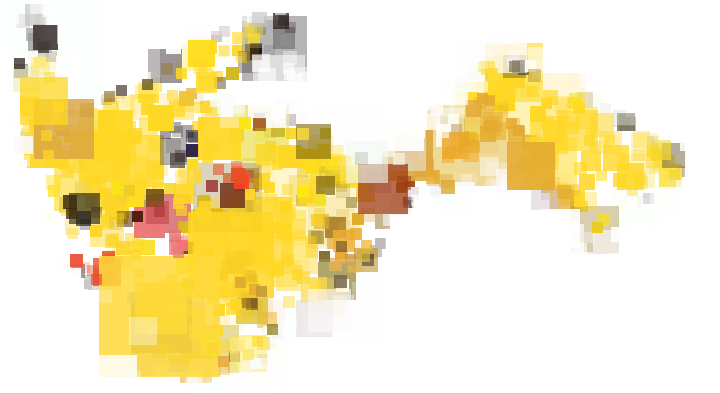
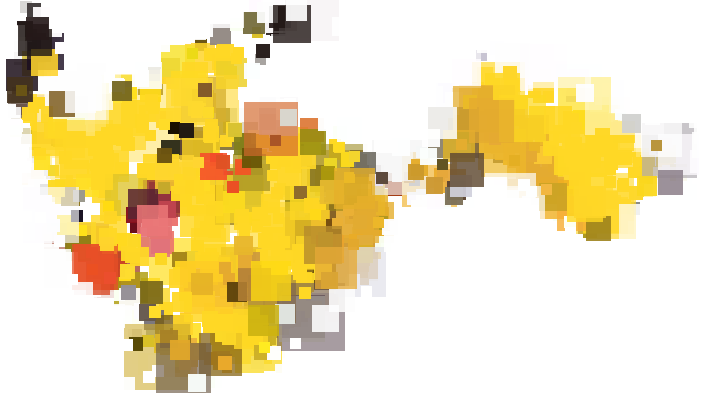
Add function to define opacity by size

diff --git a/class.pixelArt.php b/class.pixelArt.php
@@ -15,18 +15,27 @@
 
 		public function __construct( $params = array() ){
 			
+			//ratio opacity
+			$this->ratioOpacity = 127/100;
+			
 			//save params
 			$this->params = $params;
 			
 			//convert params % to correct value
 			if( isset( $this->params["minOpacity"] ) ){
 				$this->minOpacity = 127 - ($this->params["minOpacity"] * 127/100);
+				
+				//set for opacity, based on minOpacity (100% to minOpacity by range size ex: 20,100) means 80 steps of opacity
+				$this->stepOpacityPercent = ( 100 - $this->params["minOpacity"] ) / ( $this->params["rangeSizeShape"][1] - $this->params["rangeSizeShape"][0] );
 			}
 			
 			//set lowerization level
 			if( !isset($this->params["lowerizationLvl"]) ){
 				$this->params["lowerizationLvl"] = 1;	
 			}		
+			
+			
+			
 
 			if( isset($this->params["fileName"]) && $this->params["fileName"] != null){
 				//get image
@@ -92,16 +101,16 @@
 			return $tmpImage;
 		}
 		
-		public function getOpacity( $opacity, $size ){
-
-			//check if min opacity exist
-			if( isset( $this->params["minOpacity"] ) ){
-				return rand(0, $this->minOpacity);
-			}else{
-				return $opacity;
-			}
-
+				
+		public function convertOpacityPercentToRealOpacityValue( $opacityPercent ){
+			return 127 - $opacityPercent * $this->ratioOpacity;
 		}
+		
+		
+		public function getOpacity( $opacity, $size ){
+			return $this->convertOpacityPercentToRealOpacityValue( 100 - $this->stepOpacityPercent * ( $size - $this->params["rangeSizeShape"][0]) );
+		}
+		
 		
 		public function generateSizeShape($a, $b, $lvl){
 			if( $lvl == 1 ){
@@ -166,9 +175,9 @@
 		"fileName"            => "pikachu.jpg",
 		"nbrPoint"            => 2000,
 		"shape"               => "rect",
-		"rangeSizeShape"	  => array(10,200),
-		"minOpacity"		  => 10,	//0 = hide | 100 = visible
-		"lowerizationLvl"	  => 5	
+		"rangeSizeShape"	  => array(10,100),
+		"minOpacity"		  => 30,	//0 = hide | 100 = visible
+		"lowerizationLvl"	  => 3	
 	);
 	
 	//launch object	
